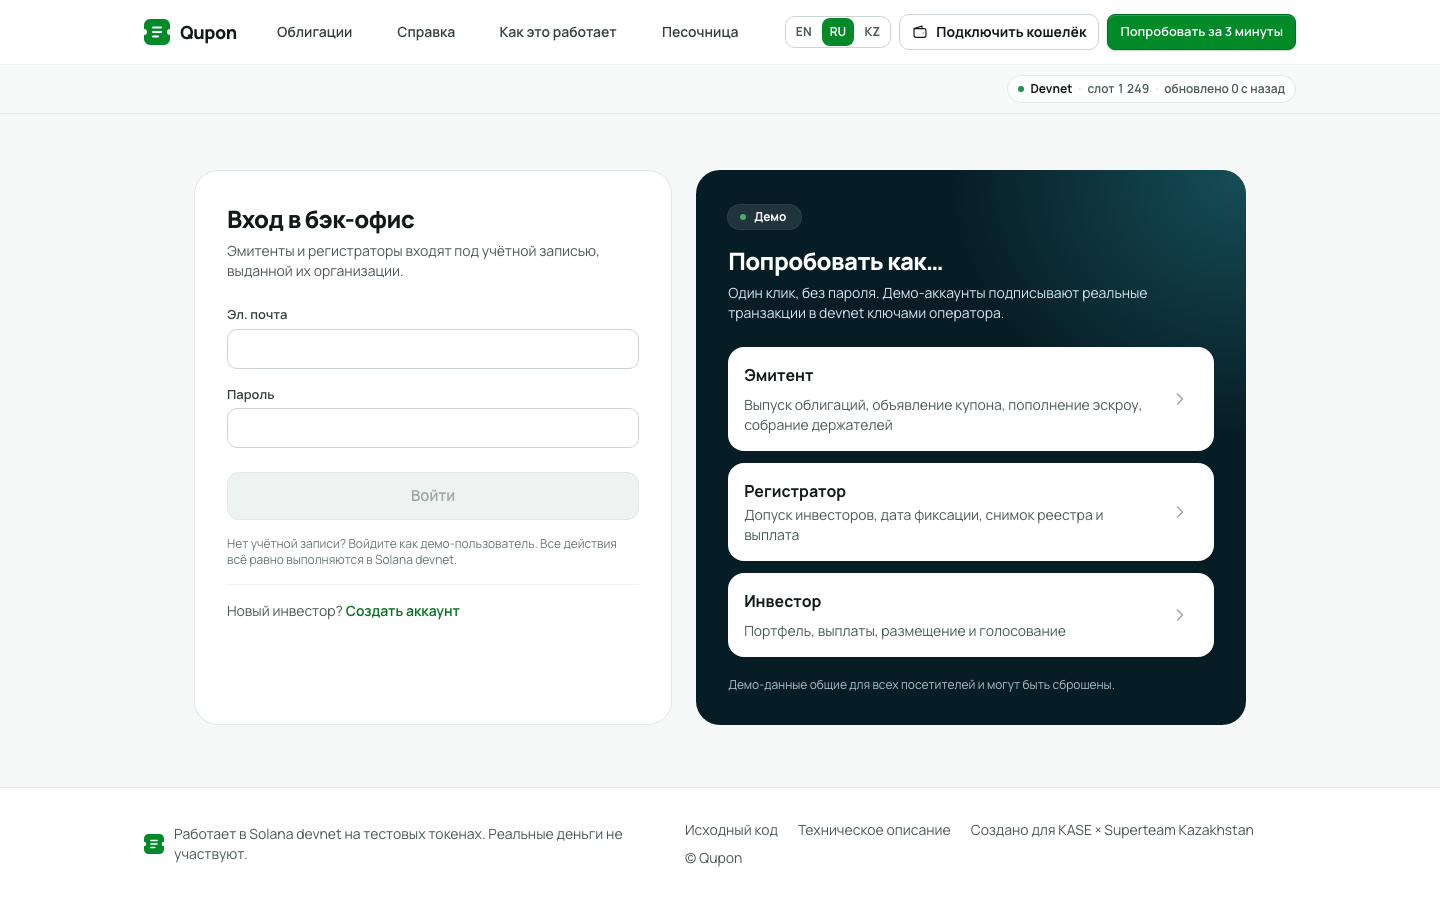
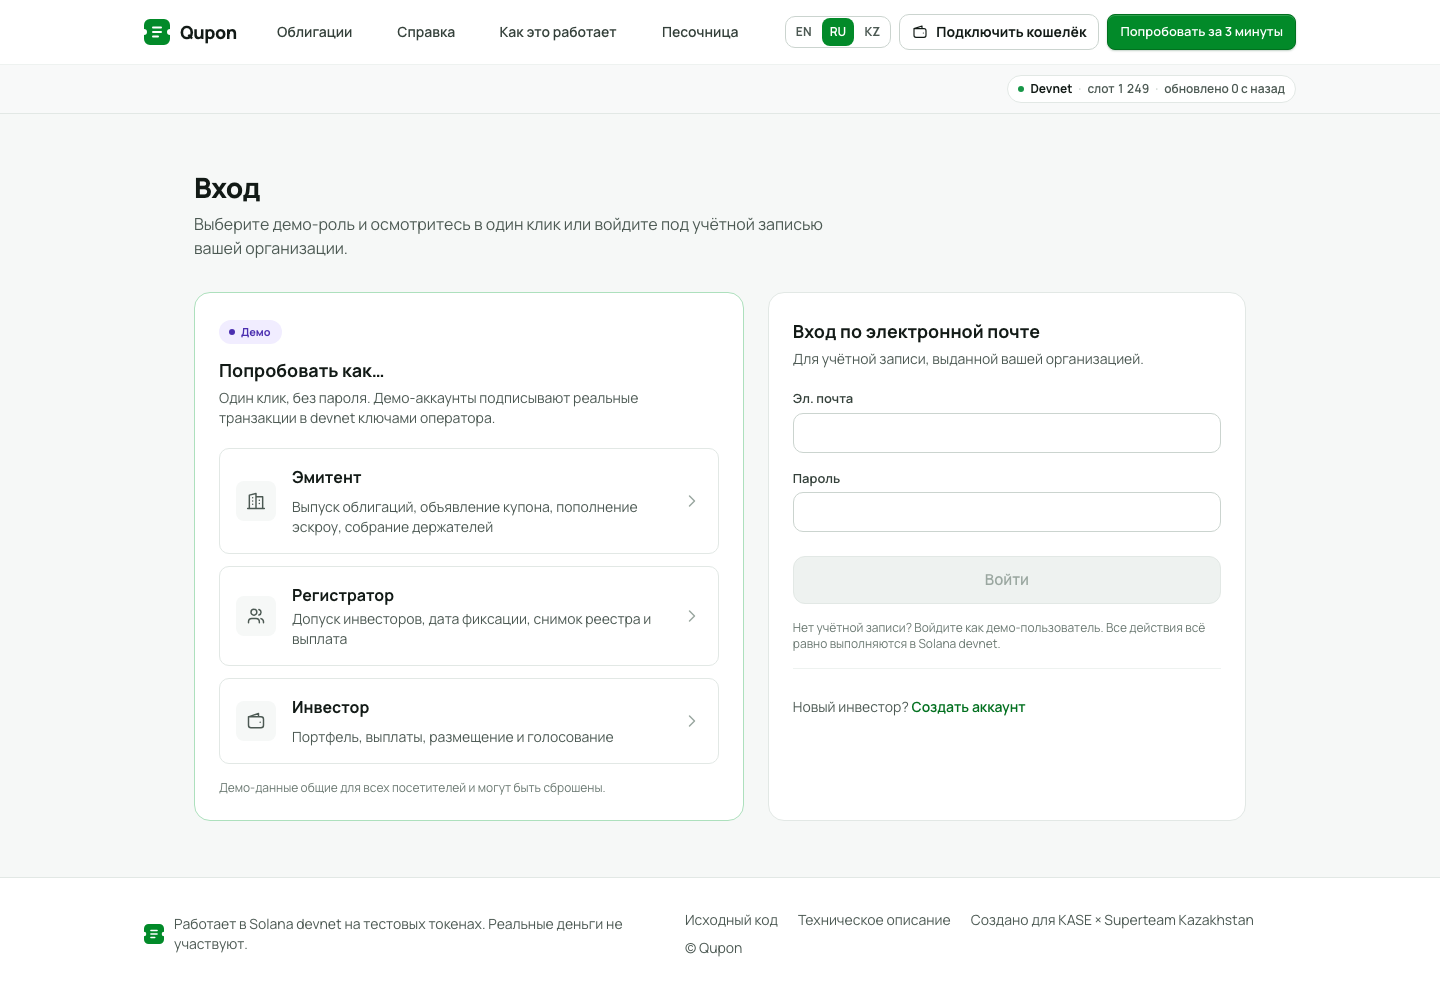
fix(web): unwrapped inline StableText in account links, refreshed shots
StableText is inline-grid and reserved the widest locale's width, opening a
~50px gap inside 'New investor? Create an account' and the ru signup
sentence; render the sentence fragments as plain strings again and give both
links inline-flex min-h-11 so tap targets clear 44px at 390. Regenerated the
12 design screenshots, which the previous commit left stale at the old
design.

task: 91530

diff --git a/apps/web/src/app/(public)/login/LoginForm.tsx b/apps/web/src/app/(public)/login/LoginForm.tsx
@@ -110,12 +110,12 @@ export function SignInCard({ next }: { next?: string }) {
         <StableText>{t("accountsNote")}</StableText>
       </p>
       <p className="mt-4 border-t border-n100 pt-4 text-sm text-n600">
-        <StableText>{t("newInvestor")}</StableText>{" "}
+        {t("newInvestor")}{" "}
         <Link
           href="/signup"
-          className="font-semibold text-g700 underline-offset-2 hover:underline"
+          className="inline-flex min-h-11 items-center font-semibold text-g700 underline-offset-2 hover:underline"
         >
-          <StableText>{t("createAccount")}</StableText>
+          {t("createAccount")}
         </Link>
       </p>
     </form>

diff --git a/apps/web/src/app/(public)/signup/SignupForm.tsx b/apps/web/src/app/(public)/signup/SignupForm.tsx
@@ -121,12 +121,12 @@ export function SignupForm() {
         {t("submit")}
       </Button>
       <p className="mt-4 border-t border-n100 pt-4 text-sm text-n600">
-        <StableText>{t("haveAccount")}</StableText>{" "}
+        {t("haveAccount")}{" "}
         <Link
           href="/login"
-          className="font-semibold text-g700 underline-offset-2 hover:underline"
+          className="inline-flex min-h-11 items-center font-semibold text-g700 underline-offset-2 hover:underline"
         >
-          <StableText>{t("signIn")}</StableText>
+          {t("signIn")}
         </Link>
       </p>
     </form>
